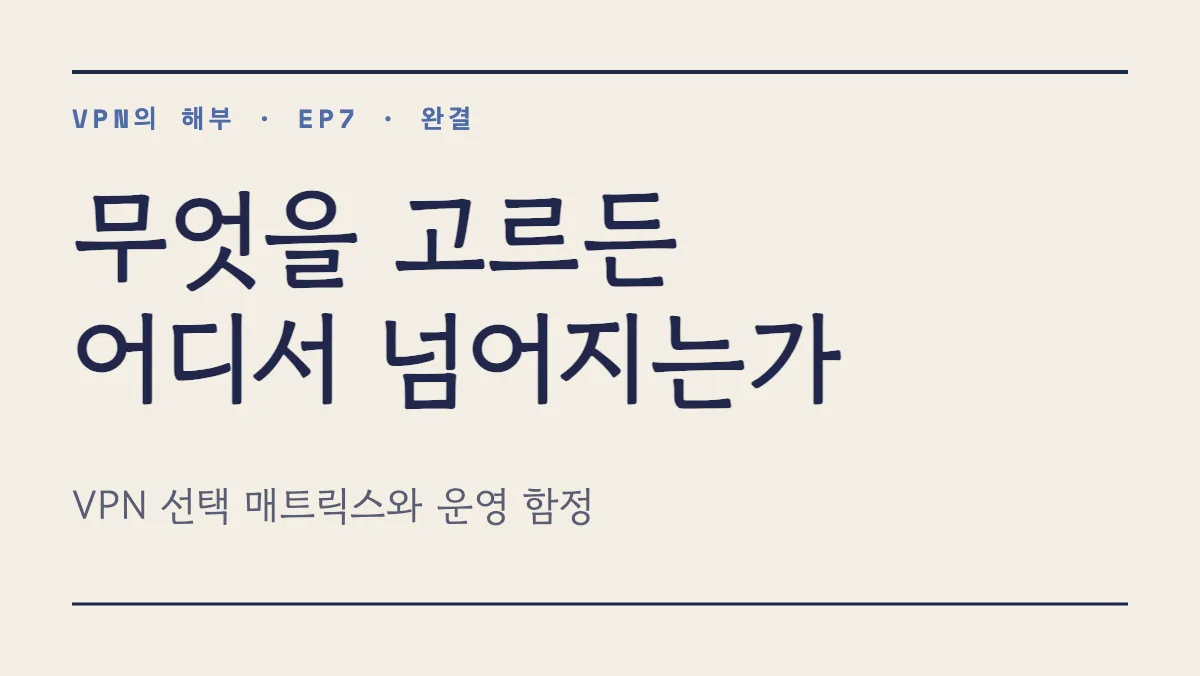
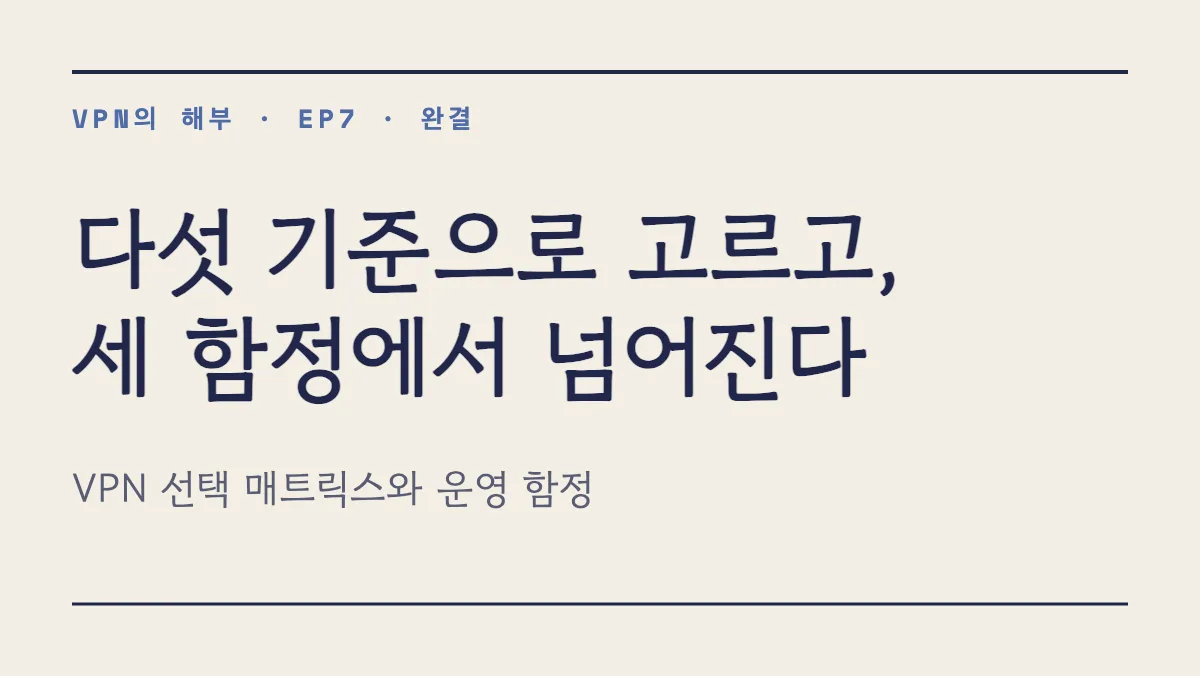
fix(posts): vpn-anatomy-7 제목·용어·hero 재작업 + auth-authz-3 단계번호 정합

Changed region(s): [[0.0617, 0.2796, 0.7708, 0.4349], [0.0617, 0.466, 0.74, 0.6213], [0.0617, 0.6834, 0.4933, 0.7766]]

diff --git a/KANBAN.md b/KANBAN.md
@@ -56,7 +56,7 @@
 
 ## 검토
 - `KAN-064` 집필 엔진 교체(authoring-kit)에 따른 기존 글 재집필 계획 수립 — 생성:유저 · 최종:ai · 갱신:2026-08-04
-  - 메모: 실측 기준선은 `.claude/authoring/rewrite-baseline.md` (2026-08-04, 29편 전수 `scan_ai_style.py`). **전면 재집필은 근거가 없다** — 기계 리듬 축 미달이 17편이지만 치명(S1) 위반의 실제 분량은 **문장 35개**이고 그중 32개가 쉼표 과다(P1) 하나다. 발행 29편의 최신 pubDate 가 2026-07-28 이라 전부 구엔진 산물인 건 맞지만, 어긋난 양은 그만큼이 아니다. **실행전략 4단계.** ① **Phase 0 — 글을 건드리기 전에 엔진부터 맞춘다.** (a) `ppangtolab-researcher` 가 `status:draft` 라 `resolve` 가 "사람 승인 전까지 발행 금지"를 띄우는데 이미 22편이 그 voice 로 나가 있다 — **유저 결정 사항**(확정할지 고칠지). (b) `ppangtolab-*` 세 voice 의 `waivers` 가 비어 있어 21편이 R1b 로 감점됐다 — L0 는 "격식체를 자기 톤으로 선언한 voice 에서 R1b waiver 는 정상"이라 적었고 사람 voice 에는 이미 있다. 등급을 올리려고가 아니라 **안 넣으면 그 글들을 잘못 고치게 되므로** 먼저 한다. (c) 스캐너 오탐 — `♭`(U+266D, WireGuard 백서 표기 인용)가 이모지로 잡혀 vpn-5 가 D 로 떨어졌다(저장소 게이트는 통과). L0 오탐 예외 5종과 같은 방식으로 예외+단위테스트. Phase 0 만으로 17→15편, D 0편. ② **윤문(재집필 아님)** — 남은 15편은 P1 32문장 + R1a 2 + H4 1 이 전부다. `authoring-kit:authoring-gate` 보완 루프 1회(의미보존 6점·수정률 상한 50% 를 2026-08-04 게이트 §5 로 이관 — `humanize-post` 는 폐지). 시리즈 단위로 묶고 그래프 재생성은 전량 머지 후 1회(KAN-044). ③ **미측정 축 표본 정독** — 스캐너는 machine-rhythm 한 축만 본다. 영어투(L0_NATURAL_KOREAN)·근거/이해(QUALITY_RUBRIC)·voice 일치(L1)는 자동 판정이 없고 **진짜 재집필 대상은 여기서 나온다**. 특히 글들이 voice 문서보다 먼저 쓰였다. L2 골격은 명세가 이 글들에서 뽑혀 대체로 맞으나 `tauri-1` 은 필수 항목 `들어가며` 가 없다. ④ **재측정·발행** — Phase 0 후 재스캔해 3분류 확정 → review-post → (재집필분만) review-writing+quality-gate → build·게이트 → ship. **하지 않을 것:** `ppangto`(사람) 글 3편은 `usage:preserve` 라 AI 가 다시 쓰지 않는다(쉼표·맞춤법만). 등급 올리려고 문장을 잘게 썰지 않는다(L0 R2 함정 — "표현이 처참하다" 전례). A 등급 5편(전부 OSI, 08-02 재집필분)은 손대지 않는다. **오측 기록:** 개인경험 사칭 18편→실제 0건, 가르치는 말투 18편→11건(대부분 정상). 둘 다 한글에 단어 경계가 없어서 생긴 오측이다. **재개(2026-08-04) — 조사 오류·구조적 자기모순 전수 재검사.** 사용자가 vpn-anatomy-7을 직접 정독하고 이전 진단에 반박(제목·내용이 처참하다) — 실제로 조사 오류 9건(`갈래으로`·`갈래은`·`갈래을`×6·`갈래과`)과 "네 개의 운영 함정"이라 못박고 kill switch 절에서 스스로 "함정 아님"이라 부정하는 자기모순이 있었다. 이를 계기로 ppangtolab 보이스 26편 전수를 이 두 축으로 재정독(근거: `.claude/authoring/rewrite-baseline.md` "조사 오류·구조적 자기모순 전수 재검사" 절). 결과: 24/26편은 여전히 깨끗해 ③ 단계의 "표본 확인"이 대체로는 맞았지만, `vpn-anatomy-7`은 조사 오류 9건(전체 21건의 43%)과 유일한 심각 자기모순으로 **윤문에서 부분 재집필로 재분류**한다(kill switch를 뺀 세 갈래로 다시 짜거나 kill switch를 진짜 함정으로 재정의 — 문장 교정으로는 안 풀린다). `auth-authz-3`는 "여섯 스텝" 표(1단계=PKCE 준비)가 실행 워크스루(1단계=Discovery)와 어긋나는 구조 불일치 1건으로 국소 수정 필요(전면 재집필 아님). `webrtc-1`(5건)·`webrtc-3`(3건)·`tauri-1`(2건)·`container-anatomy-1`(1건)·`auth-authz-1`(1건)은 조사 오류만 있어 기존 ② 윤문 라운드에 조사 교정만 얹으면 된다. **적용 완료(2026-08-04).** `vpn-anatomy-7`: 조사 오류 9건 전부 수정 + "네 개의 운영 함정"을 "세 개"(MTU 블랙홀·DNS 유출·split tunnel)로 재구성하고 kill switch는 함정 목록에서 빼 보완 장치로 재서술(본문 섹션 번호도 첫/두/세 번째로 재정렬, 사용자가 지적한 "골라 든" 어색한 표현도 정리). `webrtc-1`(5건)·`webrtc-3`(3건)·`tauri-1`(2건)·`container-anatomy-1`(1건)·`auth-authz-1`(1건)의 조사 오류도 기계적으로 교정. `build` 43쪽 통과 확인, 커밋·푸시 완료. **남은 것:** `auth-authz-3`의 "여섯 스텝" 표(1단계=PKCE 준비) vs 실행 워크스루(1단계=Discovery) 불일치는 아직 미착수 — 국소 수정 방식(PKCE를 단계에서 뺄지, 워크스루를 표에 맞출지)은 별도 결정 필요.
+  - 메모: 실측 기준선은 `.claude/authoring/rewrite-baseline.md` (2026-08-04, 29편 전수 `scan_ai_style.py`). **전면 재집필은 근거가 없다** — 기계 리듬 축 미달이 17편이지만 치명(S1) 위반의 실제 분량은 **문장 35개**이고 그중 32개가 쉼표 과다(P1) 하나다. 발행 29편의 최신 pubDate 가 2026-07-28 이라 전부 구엔진 산물인 건 맞지만, 어긋난 양은 그만큼이 아니다. **실행전략 4단계.** ① **Phase 0 — 글을 건드리기 전에 엔진부터 맞춘다.** (a) `ppangtolab-researcher` 가 `status:draft` 라 `resolve` 가 "사람 승인 전까지 발행 금지"를 띄우는데 이미 22편이 그 voice 로 나가 있다 — **유저 결정 사항**(확정할지 고칠지). (b) `ppangtolab-*` 세 voice 의 `waivers` 가 비어 있어 21편이 R1b 로 감점됐다 — L0 는 "격식체를 자기 톤으로 선언한 voice 에서 R1b waiver 는 정상"이라 적었고 사람 voice 에는 이미 있다. 등급을 올리려고가 아니라 **안 넣으면 그 글들을 잘못 고치게 되므로** 먼저 한다. (c) 스캐너 오탐 — `♭`(U+266D, WireGuard 백서 표기 인용)가 이모지로 잡혀 vpn-5 가 D 로 떨어졌다(저장소 게이트는 통과). L0 오탐 예외 5종과 같은 방식으로 예외+단위테스트. Phase 0 만으로 17→15편, D 0편. ② **윤문(재집필 아님)** — 남은 15편은 P1 32문장 + R1a 2 + H4 1 이 전부다. `authoring-kit:authoring-gate` 보완 루프 1회(의미보존 6점·수정률 상한 50% 를 2026-08-04 게이트 §5 로 이관 — `humanize-post` 는 폐지). 시리즈 단위로 묶고 그래프 재생성은 전량 머지 후 1회(KAN-044). ③ **미측정 축 표본 정독** — 스캐너는 machine-rhythm 한 축만 본다. 영어투(L0_NATURAL_KOREAN)·근거/이해(QUALITY_RUBRIC)·voice 일치(L1)는 자동 판정이 없고 **진짜 재집필 대상은 여기서 나온다**. 특히 글들이 voice 문서보다 먼저 쓰였다. L2 골격은 명세가 이 글들에서 뽑혀 대체로 맞으나 `tauri-1` 은 필수 항목 `들어가며` 가 없다. ④ **재측정·발행** — Phase 0 후 재스캔해 3분류 확정 → review-post → (재집필분만) review-writing+quality-gate → build·게이트 → ship. **하지 않을 것:** `ppangto`(사람) 글 3편은 `usage:preserve` 라 AI 가 다시 쓰지 않는다(쉼표·맞춤법만). 등급 올리려고 문장을 잘게 썰지 않는다(L0 R2 함정 — "표현이 처참하다" 전례). A 등급 5편(전부 OSI, 08-02 재집필분)은 손대지 않는다. **오측 기록:** 개인경험 사칭 18편→실제 0건, 가르치는 말투 18편→11건(대부분 정상). 둘 다 한글에 단어 경계가 없어서 생긴 오측이다. **재개(2026-08-04) — 조사 오류·구조적 자기모순 전수 재검사.** 사용자가 vpn-anatomy-7을 직접 정독하고 이전 진단에 반박(제목·내용이 처참하다) — 실제로 조사 오류 9건(`갈래으로`·`갈래은`·`갈래을`×6·`갈래과`)과 "네 개의 운영 함정"이라 못박고 kill switch 절에서 스스로 "함정 아님"이라 부정하는 자기모순이 있었다. 이를 계기로 ppangtolab 보이스 26편 전수를 이 두 축으로 재정독(근거: `.claude/authoring/rewrite-baseline.md` "조사 오류·구조적 자기모순 전수 재검사" 절). 결과: 24/26편은 여전히 깨끗해 ③ 단계의 "표본 확인"이 대체로는 맞았지만, `vpn-anatomy-7`은 조사 오류 9건(전체 21건의 43%)과 유일한 심각 자기모순으로 **윤문에서 부분 재집필로 재분류**한다(kill switch를 뺀 세 갈래로 다시 짜거나 kill switch를 진짜 함정으로 재정의 — 문장 교정으로는 안 풀린다). `auth-authz-3`는 "여섯 스텝" 표(1단계=PKCE 준비)가 실행 워크스루(1단계=Discovery)와 어긋나는 구조 불일치 1건으로 국소 수정 필요(전면 재집필 아님). `webrtc-1`(5건)·`webrtc-3`(3건)·`tauri-1`(2건)·`container-anatomy-1`(1건)·`auth-authz-1`(1건)은 조사 오류만 있어 기존 ② 윤문 라운드에 조사 교정만 얹으면 된다. **적용 완료(2026-08-04).** `vpn-anatomy-7`: 조사 오류 9건 전부 수정 + "네 개의 운영 함정"을 "세 개"(MTU 블랙홀·DNS 유출·split tunnel)로 재구성하고 kill switch는 함정 목록에서 빼 보완 장치로 재서술(본문 섹션 번호도 첫/두/세 번째로 재정렬, 사용자가 지적한 "골라 든" 어색한 표현도 정리). `webrtc-1`(5건)·`webrtc-3`(3건)·`tauri-1`(2건)·`container-anatomy-1`(1건)·`auth-authz-1`(1건)의 조사 오류도 기계적으로 교정. `build` 43쪽 통과 확인, 커밋·푸시 완료. **남은 것:** `auth-authz-3`의 "여섯 스텝" 표(1단계=PKCE 준비) vs 실행 워크스루(1단계=Discovery) 불일치는 아직 미착수 — 국소 수정 방식(PKCE를 단계에서 뺄지, 워크스루를 표에 맞출지)은 별도 결정 필요. **재반박 수용(2026-08-04, 2차) — 조사 오류 교정만으로는 부족했다.** 사용자가 vpn-anatomy-7을 다시 반박("여전히 처참, 제목도 그대로") — 정당한 지적이었다: 1차 조치는 문법(조사)과 논리(자기모순) 두 축만 봤고, **편집 품질**(제목이 시리즈 관례에 맞는지, 개념어가 문서 전체에서 일관되는지, 시각 자산이 텍스트와 맞는지)은 안 봤다. 재정독으로 실제 확인한 결함 셋. ① **제목** — EP1~6은 전부 "X 해부: 구체적 사실/숫자"(예: EP5 "선택지를 없애서 얻은 148바이트", EP3 "4개의 메시지") 관례인데 EP7만 "무엇을 고르든 어디서 넘어지는가"라는 추상적 수사의문문으로 이 관례를 깨고, 시리즈 표기("VPN의 해부 n편")와 완결 표시도 빠져 있었다. "VPN의 해부 7편 — 다섯 기준으로 고르고, 세 함정에서 넘어진다"로 교체(구체적 숫자 앵커 + 시리즈 표기 복원). description도 동일 기준으로 재작성. ② **"갈래" 용어 중복** — 시리즈 시그니처 개념인 "두 갈래"(터널링+암호화, EP1 정의, 마무리 표에서 반복)와 무관하게 "다섯 선택 기준"에도 같은 단어 "갈래"가 3곳(description·"이 다섯 갈래는…"·과제 힌트 3개)에 섞여 쓰여, 시리즈를 따라온 독자가 같은 글 안에서 같은 단어의 다른 뜻에 걸려 넘어지는 구조였다. "다섯 기준"으로 통일(본문 다수가 이미 "기준"을 쓰고 있어 그쪽이 지배적 표현이었다), "갈래"는 EP1 원 개념 자리에만 남김. ③ **hero.webp** — 옛 제목이 그림에 텍스트로 박혀 있어 frontmatter만 고치면 표지와 본문 제목이 어긋나는 상태였다. `scripts/render-viz.ts`로 PosterHero를 새 제목·부제로 재렌더. **검증**: `check-post-markers` 통과(29편 마커 이상 없음) · `build` 43쪽 통과 · 빌드된 `<title>`·`og:image`로 반영 확인. **auth-authz-3도 이번에 함께 결정·수정.** "여섯 스텝" 표(1단계=PKCE 준비)와 인터랙티브 컴포넌트 `PkceFlowStepper.tsx`(하드코딩된 스텝 라벨)가 이미 서로 일치하고, 이탈한 쪽은 프로즈 워크스루("1단계=Discovery") 하나뿐이었다 — 표·컴포넌트 두 독립 표면이 합의한 번호를 정본으로 삼았다. 워크스루의 "1단계 — Discovery로 엔드포인트를 안다"를 "1단계 — PKCE 준비와 Discovery"로 합쳐(클라이언트 내부에서 먼저 끝내는 두 가지로 묶음) 표·컴포넌트·워크스루 세 표면을 일치시켰다. 기존 Discovery 예시(curl·json)는 그대로 유지.
   - 원문:
     ```text
     집필 엔진이 바뀌었다. 기존의 글을 재집필 할 계획을 세워라.

diff --git a/KANBAN.log.md b/KANBAN.log.md
@@ -1,6 +1,7 @@
 # KANBAN 변경 이력
 > 최근 50건. 이보다 오래된 이력은 KANBAN.archive.jsonl 로 압축 보관한다.
 
+- #253 2026-08-04 15:01 · ai · KAN-064 수정 메모
 - #252 2026-08-04 14:42 · ai · KAN-064 수정 메모
 - #251 2026-08-04 14:28 · ai · KAN-064 수정 메모
 - #250 2026-08-04 13:51 · ai · KAN-064 수정 메모
@@ -50,4 +51,3 @@
 - #206 2026-07-29 20:03 · ai · KAN-057 생성 "데코 키트를 블로그 실제 페이지에 적용 (홈 히어로 · 글 목록 · 글 상세 · 글 지도)" → 할 일
 - #205 2026-07-29 17:38 · ai · KAN-054 이동 백로그 → 완료
 - #204 2026-07-29 16:28 · ai · KAN-055 이동 백로그 → 완료
-- #203 2026-07-29 15:19 · ai · KAN-056 수정 메모
